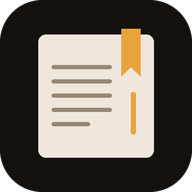
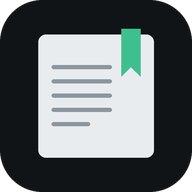
책갈피 v2.3 — 색 테마 변경
- 아이보리·갈색·주황 계열을 쿨그레이 + 초록 계열로 교체 (라이트/다크 모두)
- 앱 아이콘도 새 색으로 변경

Claude-Session: https://claude.ai/code/session_01UnsWbhbQ9EqpEfJArGxVPn

diff --git a/index.html b/index.html
@@ -5,33 +5,34 @@
 <meta name="viewport" content="width=device-width, initial-scale=1, viewport-fit=cover">
 <title>책갈피</title>
 <meta name="description" content="어디까지 읽었는지 끼워두는 독서 기록 — 매일 쓰지 않아도 되는 독서 노트">
-<meta name="theme-color" content="#14110e">
+<meta name="theme-color" content="#111417">
 <link rel="manifest" href="manifest.webmanifest">
 <link rel="icon" href="icon-192.png" type="image/png">
 <link rel="apple-touch-icon" href="icon-192.png">
 <link rel="stylesheet" href="https://cdn.jsdelivr.net/gh/orioncactus/pretendard@v1.3.9/dist/web/variable/pretendardvariable-dynamic-subset.min.css">
 <style>
 :root{
-  --bg:#14110e; --surface:#1d1915; --surface-2:#26211b; --line:#352e26;
-  --text:#efe7dc; --muted:#a89a8a; --faint:#76695b;
-  --accent:#e8a33d; --accent-ink:#1a1206;
+  --bg:#111417; --surface:#191d21; --surface-2:#22272c; --line:#2d3339;
+  --text:#e9ecef; --muted:#9aa3ab; --faint:#6b747c;
+  --accent:#3fbf8f; --accent-ink:#06140e;
   --radius:14px; --shadow:0 10px 30px rgba(0,0,0,.35);
 }
 @media (prefers-color-scheme: light){
   :root:not([data-theme="dark"]){
-    --bg:#f6f1ea; --surface:#fffdf9; --surface-2:#efe8de; --line:#e2d8ca;
-    --text:#2a231b; --muted:#6f6355; --faint:#9c8f80;
-    --accent:#c97d12; --accent-ink:#fffaf2; --shadow:0 10px 30px rgba(60,40,10,.12);
+    --bg:#eef1f3; --surface:#ffffff; --surface-2:#e8ecef; --line:#d9dee2;
+    --text:#15191c; --muted:#5b646b; --faint:#8b949b;
+    --accent:#167a5b; --accent-ink:#ffffff; --shadow:0 8px 24px rgba(20,30,40,.08);
   }
 }
 :root[data-theme="light"]{
-  --bg:#f6f1ea; --surface:#fffdf9; --surface-2:#efe8de; --line:#e2d8ca;
-  --text:#2a231b; --muted:#6f6355; --faint:#9c8f80;
-  --accent:#c97d12; --accent-ink:#fffaf2; --shadow:0 10px 30px rgba(60,40,10,.12);
+  --bg:#eef1f3; --surface:#ffffff; --surface-2:#e8ecef; --line:#d9dee2;
+  --text:#15191c; --muted:#5b646b; --faint:#8b949b;
+  --accent:#167a5b; --accent-ink:#ffffff; --shadow:0 8px 24px rgba(20,30,40,.08);
 }
 :root[data-theme="dark"]{
-  --bg:#14110e; --surface:#1d1915; --surface-2:#26211b; --line:#352e26;
-  --text:#efe7dc; --muted:#a89a8a; --faint:#76695b; --accent:#e8a33d; --accent-ink:#1a1206;
+  --bg:#111417; --surface:#191d21; --surface-2:#22272c; --line:#2d3339;
+  --text:#e9ecef; --muted:#9aa3ab; --faint:#6b747c;
+  --accent:#3fbf8f; --accent-ink:#06140e;
 }
 *{box-sizing:border-box}
 html,body{margin:0}
@@ -182,7 +183,7 @@ mark{background:color-mix(in srgb,var(--accent) 40%,transparent);color:inherit;b
 
 /* dialogs */
 dialog{border:0;padding:0;background:transparent;color:var(--text);max-width:560px;width:calc(100% - 24px)}
-dialog::backdrop{background:rgba(10,8,6,.6);backdrop-filter:blur(3px)}
+dialog::backdrop{background:rgba(8,12,15,.6);backdrop-filter:blur(3px)}
 .sheet{background:var(--surface);border:1px solid var(--line);border-radius:18px;box-shadow:var(--shadow);max-height:calc(100dvh - 40px);display:flex;flex-direction:column}
 .sheet-hd{display:flex;align-items:center;justify-content:space-between;padding:16px 18px 6px}
 .sheet-hd h3{margin:0;font-size:17px}

diff --git a/sw.js b/sw.js
@@ -1,4 +1,4 @@
-const CACHE = 'chaekgalpi-v4';
+const CACHE = 'chaekgalpi-v5';
 const SHELL = ['./', './index.html', './manifest.webmanifest', './icon-192.png', './icon-512.png'];
 self.addEventListener('install', e => {
   e.waitUntil(caches.open(CACHE).then(c => c.addAll(SHELL)).then(() => self.skipWaiting()));
